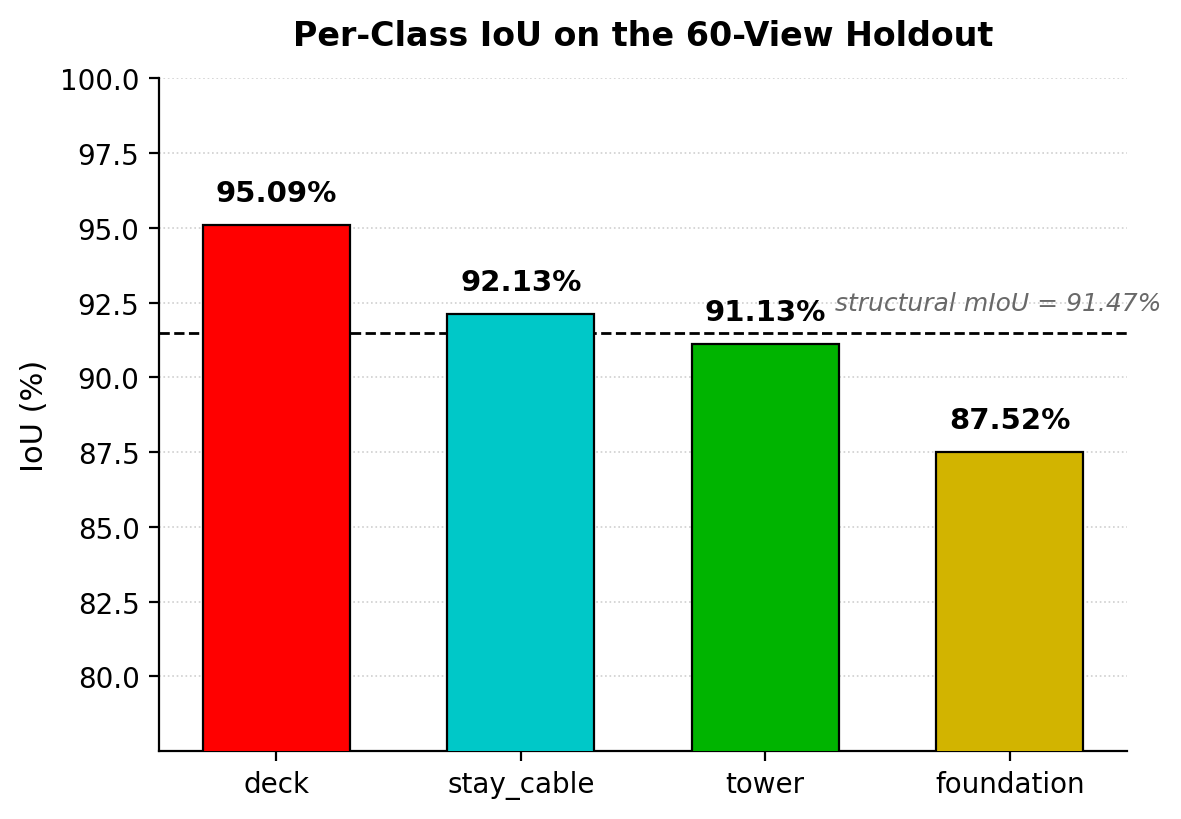
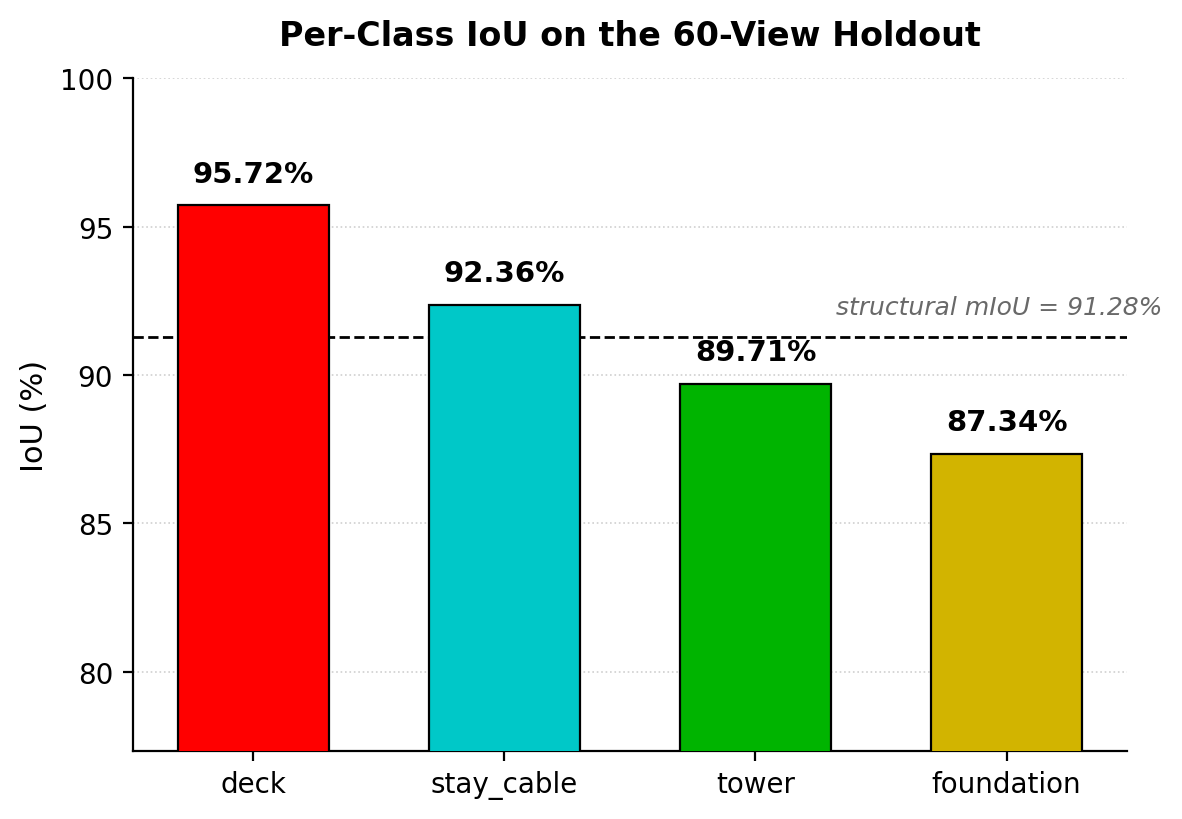
feat: regenerate Figures 3/4/5/8/9 from the plain-plurality checkpoint
First step of switching the paper's official model from the
strict-majority baseline to the plain-plurality one (per the Section
5.2 ablation, plain plurality is simpler and performs the same or
marginally better). Figure 9 relabeled: plain plurality is now "our
approach," strict-majority the "tested alternative." Figure 6 (splat
viewer) and all narrative text still reference the old baseline and
will be updated separately - PLYs for the new checkpoint are already
exported (outputs/renders/bridge_splat_plain_plurality_*.ply) pending
manual SuperSplat capture.

diff --git a/src/evaluation/plot_ablation_convergence.py b/src/evaluation/plot_ablation_convergence.py
@@ -1,9 +1,9 @@
 """
 Figure 9 (Section 5.2, optional): tracks stay_cable IoU on the 60-view holdout across training
-steps for three real checkpoints - the baseline (strict-majority cable voting + semantic
-warm-start), the plain-plurality ablation, and the no-semantic-warmstart ablation - to check
-whether the Table 3 result (no measurable *final*-IoU difference between the three) holds
-throughout training or only appears once training has converged.
+steps for three real checkpoints - our approach (plain plurality voting + semantic warm-start),
+the strict-majority cable voting rule tested as an alternative, and a no-semantic-warmstart
+ablation - to check whether the Table 3 result (no measurable *final*-IoU difference between the
+three) holds throughout training or only appears once training has converged.
 
 Deliberately skips PSNR/SSIM/LPIPS (unlike `render_metrics.py`): this figure only tracks
 semantic IoU across many checkpoints per run, and skipping the LPIPS forward pass makes that
@@ -63,10 +63,10 @@ def plot_ablation_convergence(
 ) -> str:
     """Plots `class_id`'s IoU vs. training step, one line per label in `curves`."""
     fig, ax = plt.subplots(figsize=(7.5, 5), dpi=200)
-    colors = {"baseline": "#1a1a1a", "plain_plurality": "#c0392b", "no_warmstart": "#2166ac"}
+    colors = {"plain_plurality": "#1a1a1a", "strict_majority": "#c0392b", "no_warmstart": "#2166ac"}
     labels_display = {
-        "baseline": "Baseline (strict-majority + warm-start)",
-        "plain_plurality": "Plain plurality (no strict-majority rule)",
+        "plain_plurality": "Our approach (plain plurality + warm-start)",
+        "strict_majority": "Strict-majority rule (tested alternative)",
         "no_warmstart": "No semantic warm-start (neutral init)",
     }
 
@@ -80,7 +80,7 @@ def plot_ablation_convergence(
 
     ax.set_xlabel("Training step", fontsize=13)
     ax.set_ylabel(f"{CLASS_NAMES.get(class_id, class_id)} IoU (%)", fontsize=13)
-    ax.set_title("Cable IoU convergence: ablation vs. baseline", fontsize=14.5, fontweight="bold")
+    ax.set_title("Cable IoU convergence across voting/warm-start variants", fontsize=14.5, fontweight="bold")
     ax.legend(fontsize=10.5, loc="lower right")
 
     fig.tight_layout()
@@ -95,8 +95,8 @@ def main():
 
     project_root = os.path.abspath(os.path.join(os.path.dirname(__file__), "..", ".."))
     parser = argparse.ArgumentParser(description="Track cable IoU vs. training step across ablation runs")
-    parser.add_argument("--baseline-dir", required=True)
     parser.add_argument("--plain-plurality-dir", required=True)
+    parser.add_argument("--strict-majority-dir", required=True)
     parser.add_argument("--no-warmstart-dir", required=True)
     parser.add_argument("--steps", nargs="+", type=int, default=[2000, 4000, 6000, 8000, 10000, 16000, 24000, 32000, 40000])
     parser.add_argument("--colmap-dir", default=None)
@@ -127,8 +127,8 @@ def main():
     )
 
     checkpoint_dirs = {
-        "baseline": args.baseline_dir,
         "plain_plurality": args.plain_plurality_dir,
+        "strict_majority": args.strict_majority_dir,
         "no_warmstart": args.no_warmstart_dir,
     }
     curves = collect_convergence_curves(checkpoint_dirs, args.steps, holdout_cameras, device=device)

diff --git a/tests/test_plot_ablation_convergence.py b/tests/test_plot_ablation_convergence.py
@@ -13,7 +13,7 @@ STAY_CABLE_CLASS_ID = 2
 class TestPlotAblationConvergence(unittest.TestCase):
     def test_writes_a_nonempty_png(self):
         curves = {
-            "baseline": {2000: {STAY_CABLE_CLASS_ID: 0.833}, 40000: {STAY_CABLE_CLASS_ID: 0.9213}},
+            "strict_majority": {2000: {STAY_CABLE_CLASS_ID: 0.833}, 40000: {STAY_CABLE_CLASS_ID: 0.9213}},
             "plain_plurality": {2000: {STAY_CABLE_CLASS_ID: 0.8265}, 40000: {STAY_CABLE_CLASS_ID: 0.9236}},
             "no_warmstart": {2000: {STAY_CABLE_CLASS_ID: 0.8098}, 40000: {STAY_CABLE_CLASS_ID: 0.9202}},
         }
